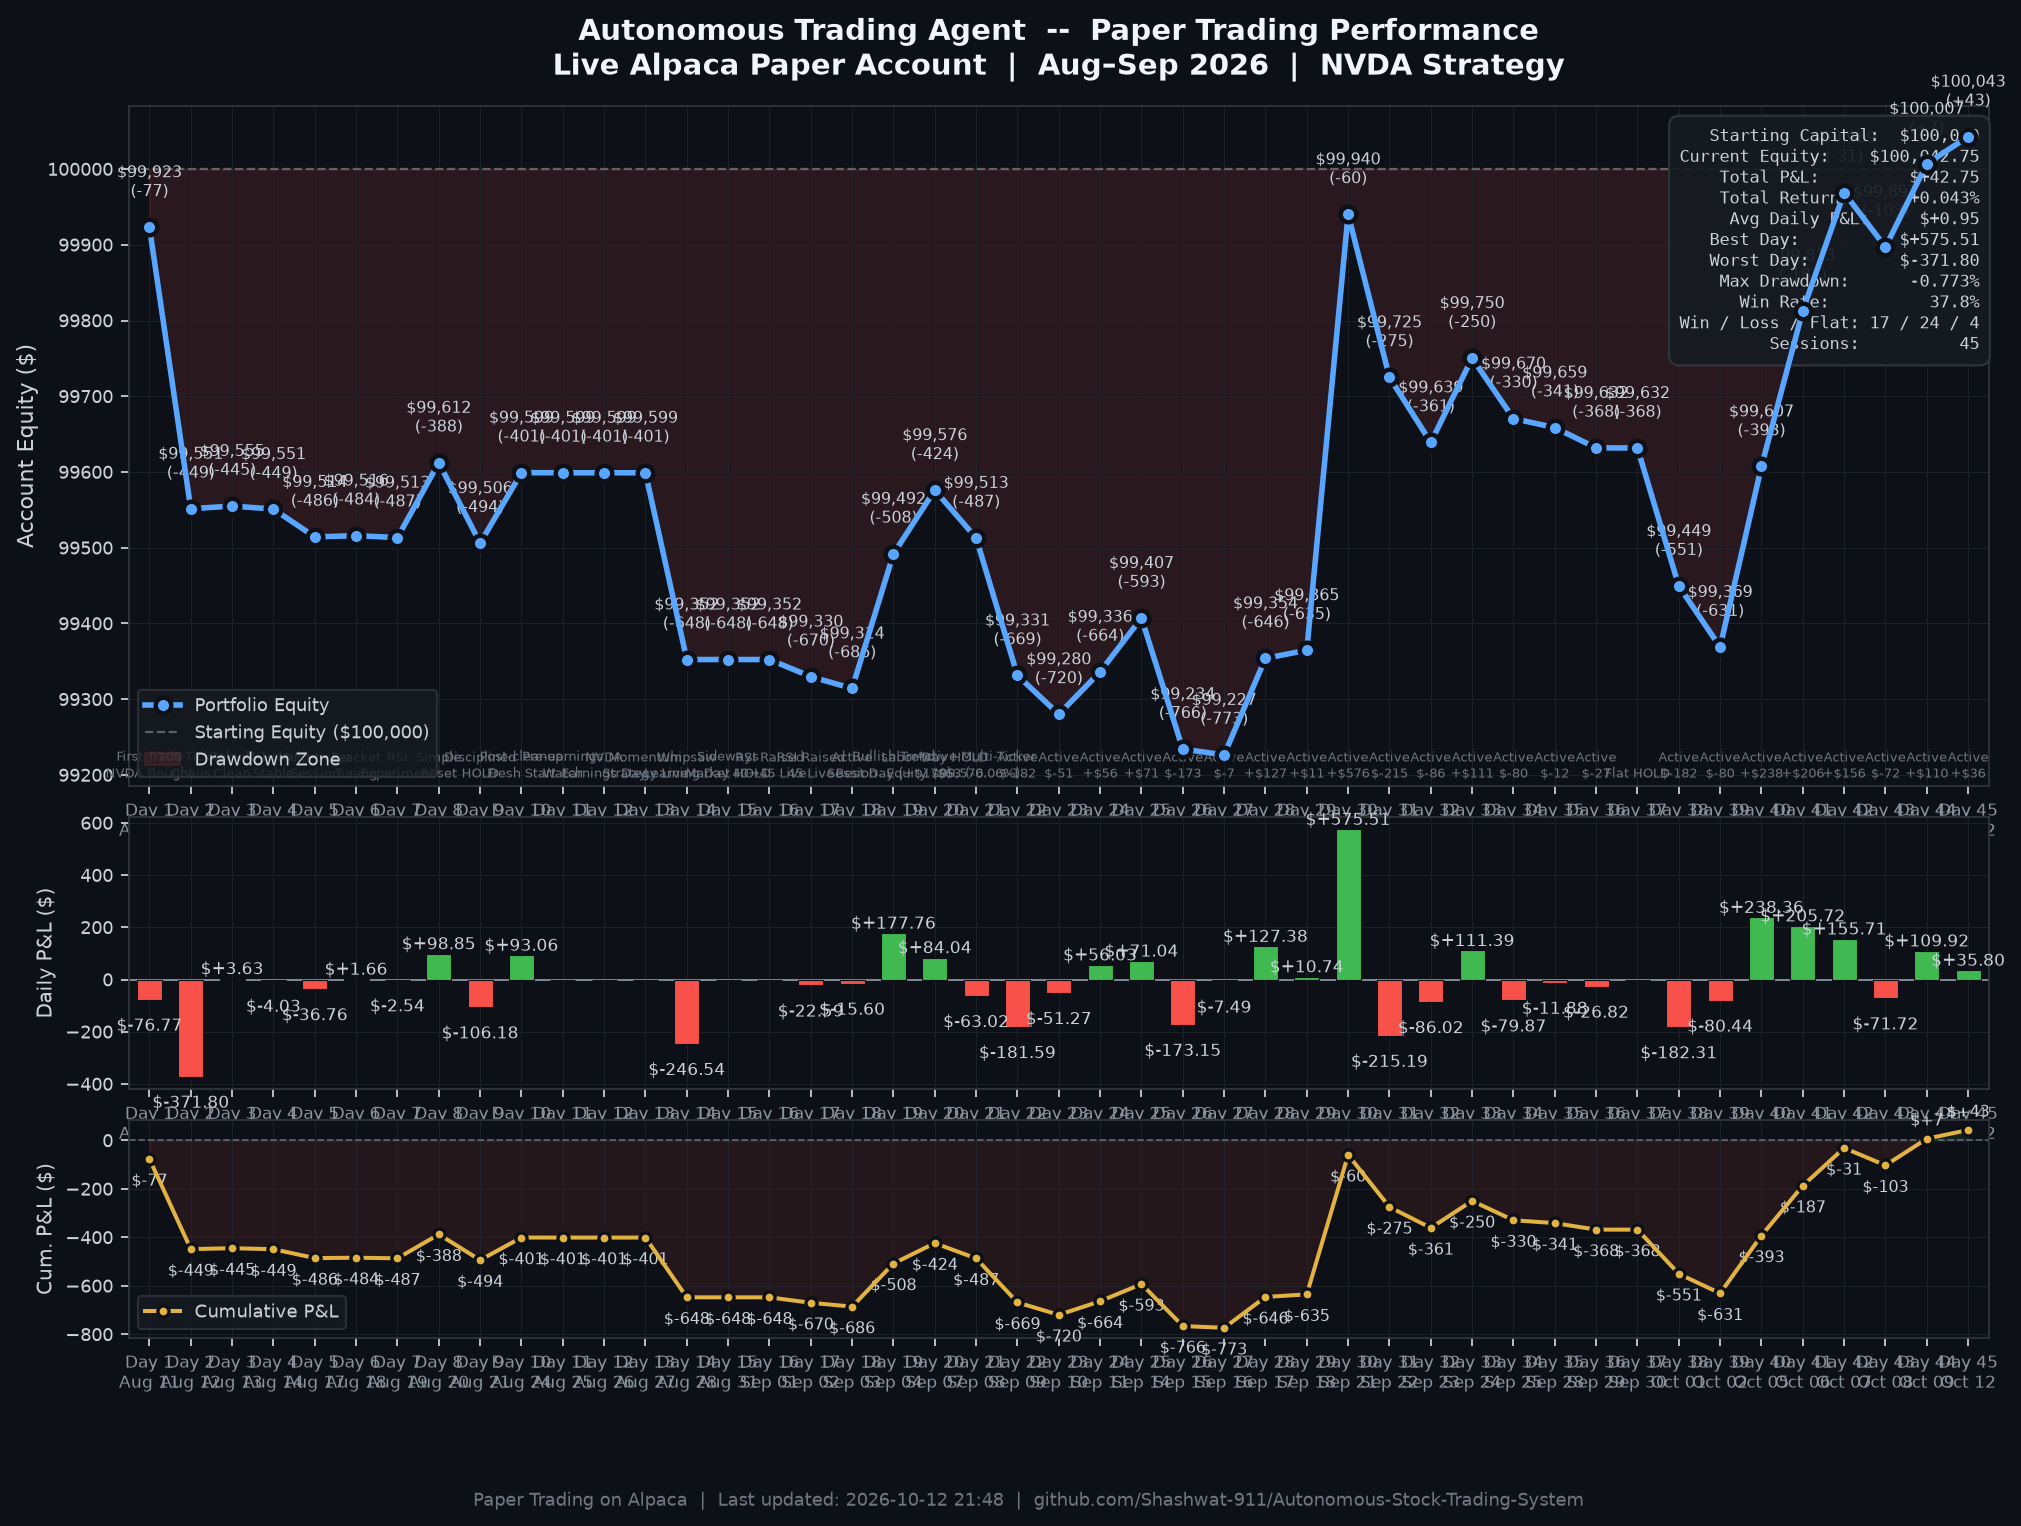
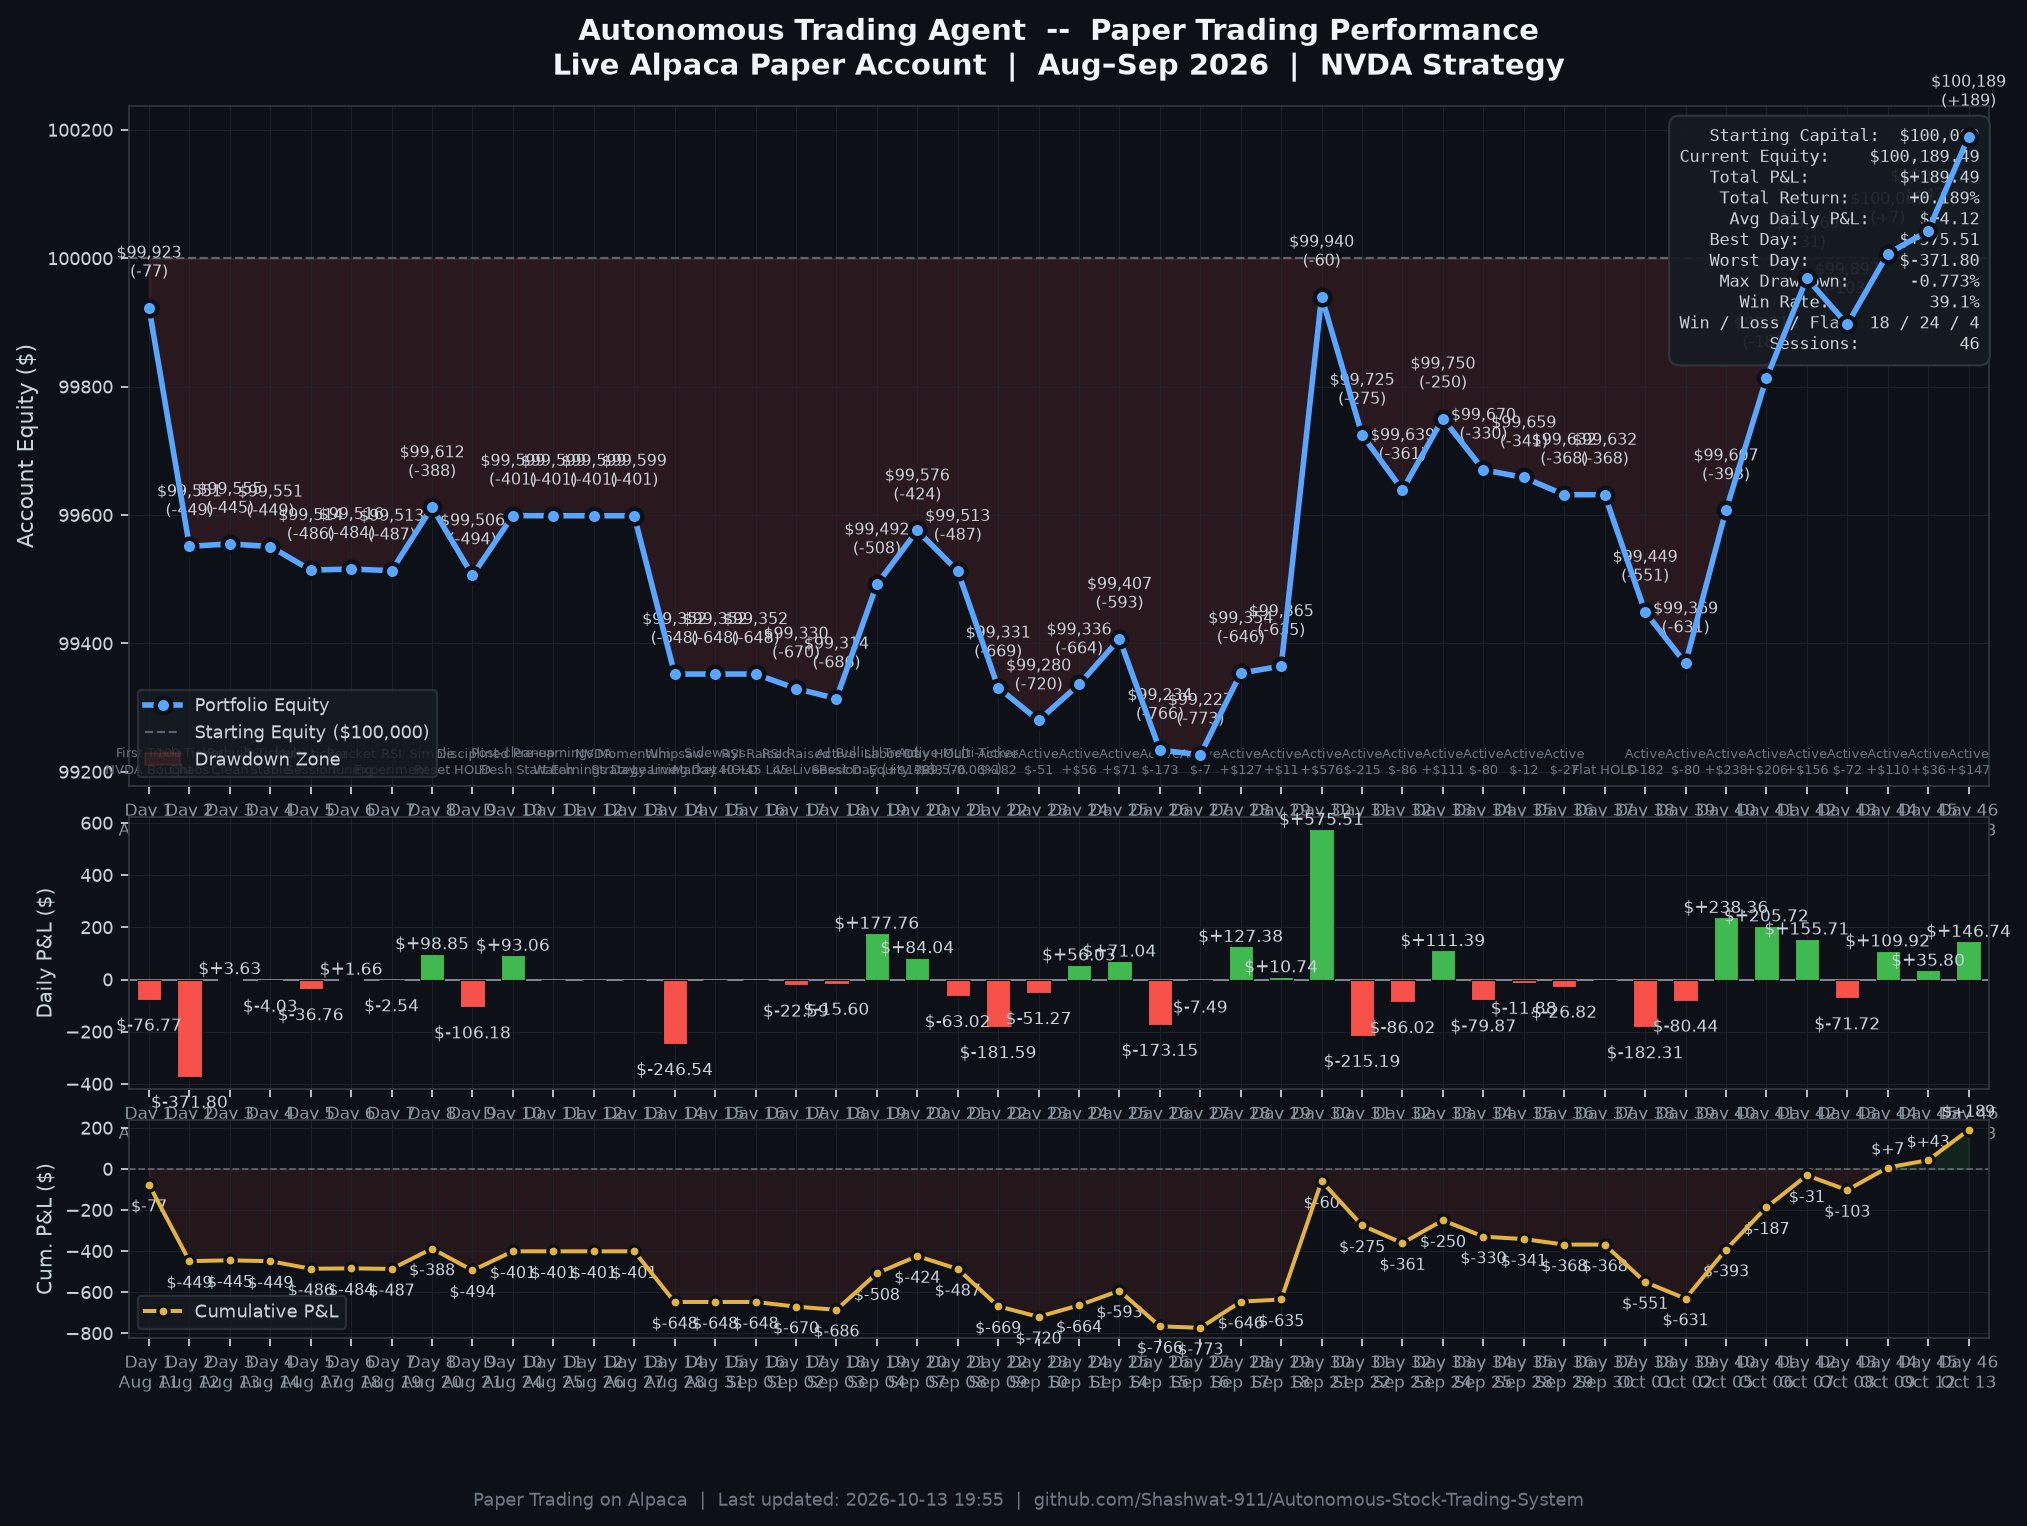
auto(session): 2026-10-13 | equity=$100,190 | return=+0.190%

diff --git a/README.md b/README.md
@@ -47,7 +47,7 @@ The automated trading bot is deployed in the cloud on Render with continuous mon
 
 > **Paper Trading on Alpaca** | Started: Aug 11, 2026 | Initial Capital: $100,000.00 | Universe: NVDA, TSLA, META, MSFT, AAPL (5-Stock High-Momentum Universe)
 
-![Daily P&L Chart](outputs/daily_pnl_chart.png?v=20261012)
+![Daily P&L Chart](outputs/daily_pnl_chart.png?v=20261013)
 
 *Chart auto-generated from live Alpaca Portfolio History API and verified session telemetry via [`scripts/generate_pnl_chart.py`](scripts/generate_pnl_chart.py).*
 
@@ -100,8 +100,9 @@ The automated trading bot is deployed in the cloud on Render with continuous mon
 | **Day 43** | Oct 08 (Thu) | $99,897.03 | -$71.72 | -$102.97 | -0.103% | Active Session (-$71.72) |
 | **Day 44** | Oct 09 (Fri) | $100,006.95 | **+$109.92** | +$6.95 | +0.007% | Profitable Session (+$109.92) |
 | **Day 45** | Oct 12 (Mon) | $100,042.75 | +$35.80 | +$42.75 | +0.043% | Active Session (+$35.80) |
+| **Day 46** | Oct 13 (Tue) | $100,189.49 | **+$146.74** | +$189.49 | +0.189% | Profitable Session (+$146.74) |
 
-> **Current Equity**: $100,042.75 | **Total P&L**: $+42.75 | **Best Day**: $+575.51 | **Win Rate**: 37.8% (17W / 24L / 4 Flat) | **Max Drawdown**: -0.773% | **Sessions**: 45
+> **Current Equity**: $100,189.49 | **Total P&L**: $+189.49 | **Best Day**: $+575.51 | **Win Rate**: 39.1% (18W / 24L / 4 Flat) | **Max Drawdown**: -0.773% | **Sessions**: 46
 ---
 
 ## System Architecture
